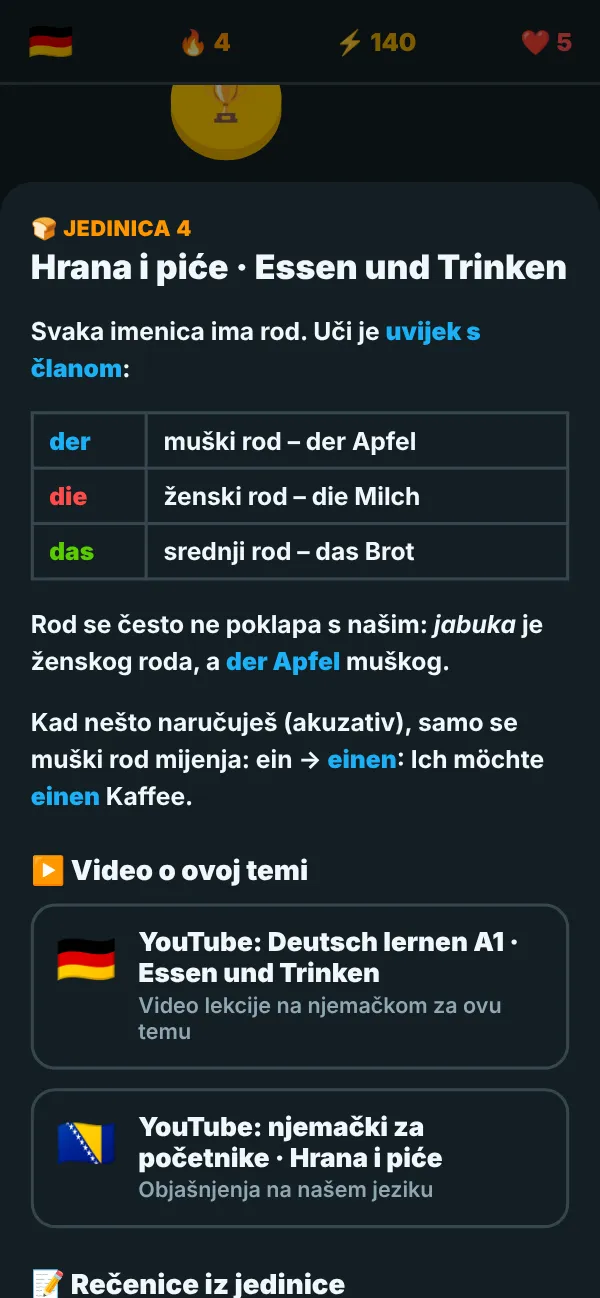
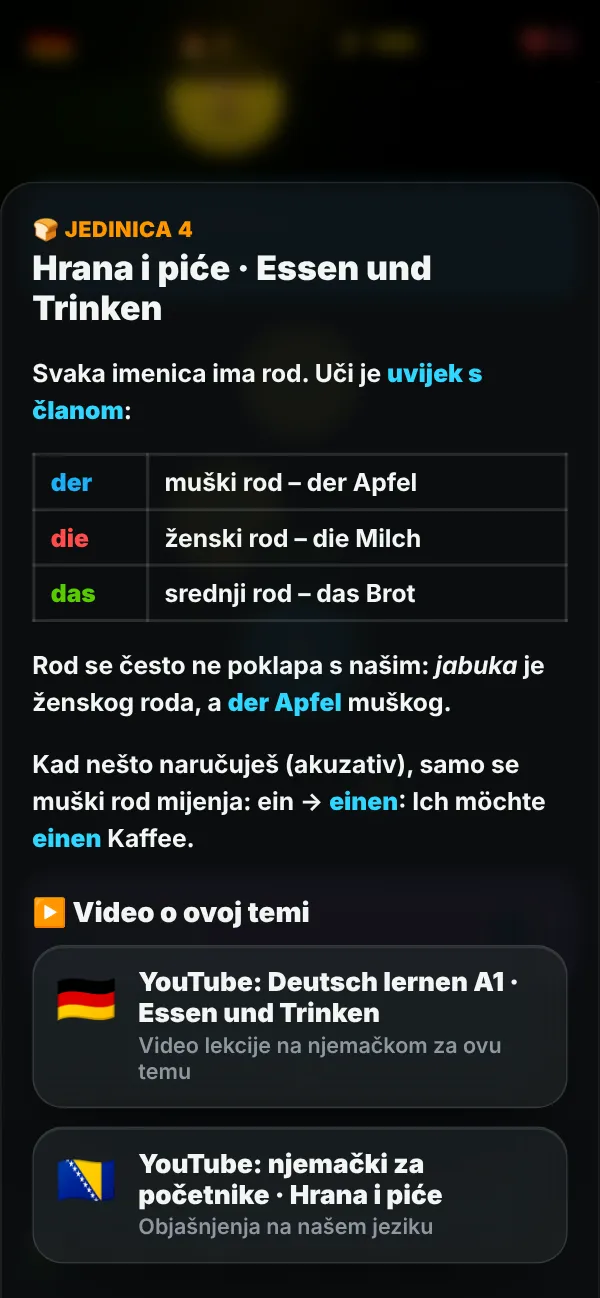
Bash Deutsch: AMOLED tema s glassmorphism efektom kao ostale bashlab aplikacije
Claude-Session: https://claude.ai/code/session_01JQr1FuW99hkd23hfPWuTbT

diff --git a/deutsch/index.html b/deutsch/index.html
@@ -6,7 +6,8 @@
 <title>Bash Deutsch – njemački A1–B2</title>
 <meta name="description" content="Uči njemački od A1 do B2: lekcije, slušanje, slaganje rečenica, der/die/das, video izvori. Besplatno.">
 <link rel="icon" href="../assets/icons/icon-192.png">
-<link href="https://fonts.googleapis.com/css2?family=Nunito:wght@600;700;800;900&display=swap" rel="stylesheet">
+<link href="https://fonts.googleapis.com/css2?family=Inter:wght@500;600;700;800;900&family=Nunito:wght@700;800;900&display=swap" rel="stylesheet">
+<meta name="theme-color" content="#000000">
 <style>
 :root{--green:#58cc02;--green-d:#46a302;--blue:#1cb0f6;--blue-d:#1899d6;--red:#ff4b4b;--red-d:#ea2b2b;--yellow:#ffc800;--orange:#ff9600;
 --bg:#fff;--text:#3c3c3c;--muted:#8a8a8a;--line:#e5e5e5;--line-d:#cfcfcf;--card:#fff;--soft:#f7f7f7;--okbg:#d7ffb8;--okfg:#58a700;--badbg:#ffdfe0;--badfg:#ea2b2b}
@@ -237,9 +238,64 @@ select{width:100%;font:inherit;padding:12px;border:2px solid var(--line);border-
 canvas#cf{position:fixed;inset:0;pointer-events:none;z-index:60}
 .shake{animation:shake .35s}
 @keyframes shake{20%,60%{transform:translateX(-6px)}40%,80%{transform:translateX(6px)}}
+
+/* ===== AMOLED + glassmorphism (bashlab stil) ===== */
+:root{--bg:#000;--text:#f2f5f3;--muted:#8d979e;--line:rgba(255,255,255,.12);--line-d:rgba(255,255,255,.05);--card:rgba(255,255,255,.055);--soft:rgba(255,255,255,.06);
+--green:#7cff01;--green-d:#4a9c00;--blue:#2fd6ff;--blue-d:#0aa3c7;--red:#ff4d6d;--red-d:#c9304f;--yellow:#ffd60a;--orange:#ff9f1c;
+--okbg:rgba(124,255,1,.12);--okfg:#a6ff4d;--badbg:rgba(255,77,109,.14);--badfg:#ff8aa0;
+--gb:rgba(255,255,255,.12);--gb2:rgba(255,255,255,.22);--blur:blur(22px) saturate(170%);--sh:0 24px 60px -28px rgba(0,0,0,.9),inset 0 1px 0 rgba(255,255,255,.1)}
+html,body{background:#000;color:var(--text);font-family:"Inter",Nunito,system-ui,sans-serif}
+.blobs{position:fixed;inset:0;z-index:0;pointer-events:none;overflow:hidden;filter:blur(60px)}
+.blobs i{position:absolute;border-radius:50%;opacity:.45;animation:blob 26s ease-in-out infinite alternate}
+.blobs i:nth-child(1){width:46vmax;height:46vmax;left:-16vmax;top:-14vmax;background:radial-gradient(circle,rgba(124,255,1,.42),transparent 62%)}
+.blobs i:nth-child(2){width:40vmax;height:40vmax;right:-16vmax;top:30vh;background:radial-gradient(circle,rgba(0,210,200,.45),transparent 62%);animation-duration:31s}
+.blobs i:nth-child(3){width:38vmax;height:38vmax;left:10vw;bottom:-22vmax;background:radial-gradient(circle,rgba(140,90,255,.5),transparent 62%);animation-duration:35s}
+@keyframes blob{0%{transform:translate(0,0) scale(1)}50%{transform:translate(6vw,8vh) scale(1.12)}100%{transform:translate(-5vw,-4vh) scale(.94)}}
+@media (prefers-reduced-motion:reduce){.blobs i{animation:none}}
+#app{position:relative;z-index:1}
+.glass,.card,.opt,.tile,.xo,.sbox,.note,.xm-text,.xm-ads div,.xform,.xrv,.search,input.typ,.xta,select,.seg button,.chars button,.bchip,.banb,.xcards span,.wrow .spk,.timer,.lbme,.newsb,.xres,.rs,.intro .spk{
+  background:var(--card)!important;border:1px solid var(--gb)!important;-webkit-backdrop-filter:var(--blur);backdrop-filter:var(--blur);box-shadow:var(--sh)}
+.card,.sbox,.note,.xform,.xrv{border-radius:20px}
+header.top{background:rgba(0,0,0,.55);-webkit-backdrop-filter:var(--blur);backdrop-filter:var(--blur);border-bottom:1px solid var(--gb)}
+nav.bottom{background:rgba(0,0,0,.6);-webkit-backdrop-filter:var(--blur);backdrop-filter:var(--blur);border-top:1px solid var(--gb)}
+nav.bottom button.on{color:var(--green)}nav.bottom button.on .ic{filter:drop-shadow(0 0 8px rgba(124,255,1,.55))}
+.lesson{background:rgba(0,0,0,.9);-webkit-backdrop-filter:blur(30px) saturate(160%);backdrop-filter:blur(30px) saturate(160%)}
+.lfoot{border-top:1px solid var(--gb);background:rgba(0,0,0,.35)}
+.lfoot.ok{background:rgba(124,255,1,.1)}.lfoot.bad{background:rgba(255,77,109,.12)}
+.sheet-bg{background:rgba(0,0,0,.6);-webkit-backdrop-filter:blur(6px);backdrop-filter:blur(6px)}
+.sheet{background:rgba(14,18,20,.78);-webkit-backdrop-filter:var(--blur);backdrop-filter:var(--blur);border:1px solid var(--gb);border-bottom:0;box-shadow:0 -20px 60px -20px rgba(0,0,0,.9)}
+.btn{background:var(--green);color:#041000;box-shadow:0 4px 0 var(--green-d),0 0 24px -6px rgba(124,255,1,.55);border-radius:16px}
+.btn:active{box-shadow:0 1px 0 var(--green-d)}
+.btn.blue{background:var(--blue);color:#001318;box-shadow:0 4px 0 var(--blue-d),0 0 24px -6px rgba(47,214,255,.5)}
+.btn.red{background:var(--red);color:#fff;box-shadow:0 4px 0 var(--red-d),0 0 24px -6px rgba(255,77,109,.5)}
+.btn.ghost{background:var(--card);color:var(--green);border:1px solid var(--gb2);box-shadow:var(--sh);-webkit-backdrop-filter:var(--blur);backdrop-filter:var(--blur)}
+.btn:disabled{background:rgba(255,255,255,.08);color:var(--muted);box-shadow:none}
+.spk,.xplay{background:linear-gradient(135deg,rgba(47,214,255,.9),rgba(0,210,200,.8));box-shadow:0 4px 0 var(--blue-d),0 0 20px -6px rgba(47,214,255,.6);color:#001318}
+.xplay:disabled{background:rgba(255,255,255,.08);color:var(--muted);box-shadow:none}
+.opt.sel,.xo.sel{border-color:var(--blue)!important;background:rgba(47,214,255,.12)!important;color:var(--blue)}
+.opt.right,.xo.right{border-color:var(--green)!important;background:rgba(124,255,1,.12)!important;color:var(--okfg)}
+.opt.wrong,.xo.wrong{border-color:var(--red)!important;background:rgba(255,77,109,.12)!important;color:var(--badfg)}
+.seg button.on,.bchip.on{border-color:var(--green)!important;color:var(--green);background:rgba(124,255,1,.1)!important}
+.tile.used{background:rgba(255,255,255,.04)!important;border-color:transparent!important;box-shadow:none}
+.unit{border:1px solid rgba(255,255,255,.18);background-image:linear-gradient(135deg,rgba(255,255,255,.18),rgba(255,255,255,0) 60%)!important;-webkit-backdrop-filter:var(--blur);backdrop-filter:var(--blur)}
+.node{border:1px solid rgba(255,255,255,.25);background-image:linear-gradient(160deg,rgba(255,255,255,.35),rgba(255,255,255,0) 55%)}
+.node.locked{background:rgba(255,255,255,.07);box-shadow:0 7px 0 rgba(255,255,255,.04);border-color:var(--gb);-webkit-backdrop-filter:var(--blur);backdrop-filter:var(--blur)}
+.node.done{background-color:#ffd60a;box-shadow:0 7px 0 #b89600,0 0 26px -6px rgba(255,214,10,.6)}
+.node.cur{outline:3px solid rgba(124,255,1,.45);box-shadow:0 7px 0 var(--cd),0 0 30px -4px rgba(124,255,1,.55)}
+.startb{background:rgba(0,0,0,.6);border:1px solid var(--gb2);color:var(--green);-webkit-backdrop-filter:var(--blur);backdrop-filter:var(--blur)}
+.gbar,.prog{background:rgba(255,255,255,.08)}.prog i{background:var(--green);box-shadow:0 0 12px rgba(124,255,1,.6)}
+.gbar i{box-shadow:0 0 10px rgba(255,214,10,.5)}
+.lvb{box-shadow:0 0 18px -4px currentColor}
+.lbr{border-bottom:1px solid var(--gb)}.lbr.me{background:rgba(124,255,1,.09)}
+.stat.fire{color:var(--orange)}.stat.xp{color:var(--yellow)}.stat.heart{color:var(--red)}
+.xm-part{border-top:1px solid var(--gb)}.xmod{border-top:1px solid var(--gb)}
+.wrow{border-bottom:1px solid var(--gb)}
+h2.t,.utit,.xm-pt{letter-spacing:-.02em}
+a{color:var(--blue)}
 </style>
 </head>
 <body>
+<div class="blobs" aria-hidden="true"><i></i><i></i><i></i></div>
 <div id="app"></div>
 <script>
 /* ============ DATA ============ */

diff --git a/sw.js b/sw.js
@@ -1,5 +1,5 @@
 /* bashlab service worker – sajt radi i offline. Samo za glavnu stranicu (ne dira igre/fit/armory). */
-const V = 'bashlab-v16';
+const V = 'bashlab-v17';
 const CORE = ['./', 'index.html', 'assets/site.css?v=5', 'assets/site.js?v=8', 'assets/projects.js?v=10', 'manifest.webmanifest',
   'assets/icons/icon-192.png', 'assets/shots/armory-1.webp'];
 self.addEventListener('install', e => { e.waitUntil(caches.open(V).then(c => c.addAll(CORE)).then(() => self.skipWaiting())); });
